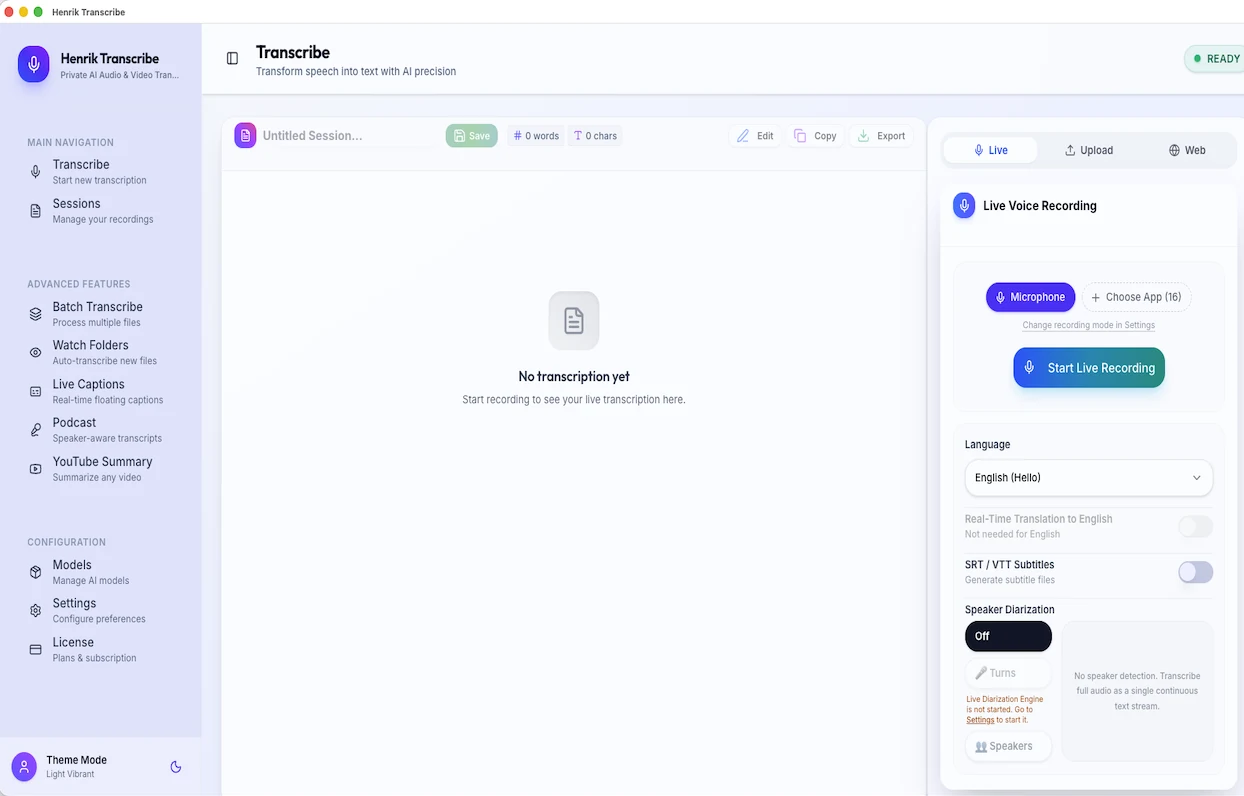
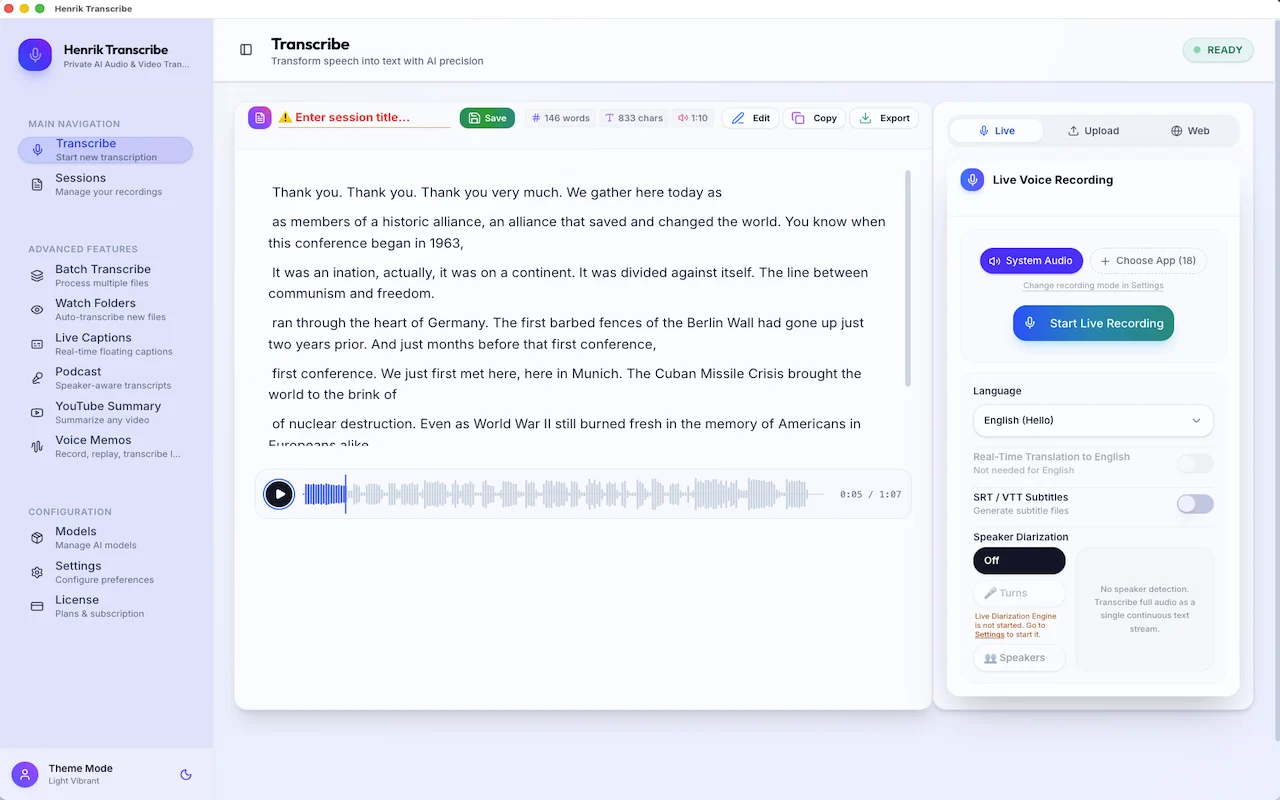
Add Voice Memos; new Live screenshot with waveform and system-audio sources
- Mac section: a Voice Memos feature row (record/pause, waveform player, speed, trim and
  revert, favorites, folders, Recently Deleted, share and export, on-device transcript with
  Summary, Insights and Ask) with the new Voice Memos screenshot.
- Live input tab: new screenshot and copy for system/app audio capture and the waveform
  player under the transcript.
- Hero mentions Voice Memos; comparison table gains a Voice Memos row.
- FAQ: what Voice Memos is, and why system/app audio needs Screen & System Audio Recording.
- Privacy: the screen & system audio permission, voice memos stored locally, Recently
  Deleted for 30 days; last-updated date.

diff --git a/src/content/site.ts b/src/content/site.ts
@@ -61,6 +61,19 @@ export const macFeatures = {
     image: 'images/mac/youtube-summary.webp',
     alt: 'The YouTube Summary window with a list of summarised videos and a detailed summary.',
   },
+  voiceMemos: {
+    eyebrow: 'New · Voice Memos',
+    title: 'Record now. Transcribe when you need to.',
+    body: 'A dedicated recorder for ideas, lectures and interviews. Memos stay as audio you can replay, trim and share — and when you want the words, one click transcribes a memo on your Mac and opens the same Summary, Insights and Ask tools.',
+    points: [
+      'Record, pause and resume with a live waveform',
+      'Scrub the waveform, skip 15 s, play at 0.75× to 2×; trim with a one-click revert',
+      'Favorites, folders, search, and Recently Deleted for 30 days',
+      'Share with AirDrop, Mail or Messages; export M4A, WAV or the transcript',
+    ],
+    image: 'images/mac/voice-memos.webp',
+    alt: 'The Voice Memos window: a list of recordings, a waveform player with speed control, and Transcript, Summary, Insights and Ask tabs.',
+  },
 }
 
 export const inputs = [
@@ -68,9 +81,9 @@ export const inputs = [
     id: 'live',
     label: 'Live',
     title: 'Record and transcribe as you speak.',
-    body: 'Start the microphone and words appear instantly. Great for meetings, interviews, lectures and voice notes — with optional on-device speaker labels.',
+    body: 'Capture your microphone, your Mac’s system audio or a single app, and words appear instantly — with optional on-device speaker labels. A waveform tracks the recording, then turns into a player so you can replay any moment under the transcript.',
     image: 'images/mac/live.webp',
-    alt: 'The Live tab with a microphone recording control.',
+    alt: 'The Live tab with System Audio and Choose App sources, a transcript, and a waveform player under it.',
   },
   {
     id: 'upload',
@@ -142,6 +155,7 @@ export const comparison: { feature: string; mac: boolean | string; iphone: boole
   { feature: 'Speaker diarization', mac: true, iphone: false },
   { feature: 'AI Summary & Talk to Transcript', mac: true, iphone: false },
   { feature: 'YouTube Summary & chapters', mac: true, iphone: false },
+  { feature: 'Voice Memos (record, trim, share, transcribe)', mac: true, iphone: false },
   { feature: 'Batch, Watch Folders, Live Captions, Podcast', mac: true, iphone: false },
   { feature: 'SRT & VTT subtitle export', mac: true, iphone: false },
   { feature: 'Whisper model manager', mac: true, iphone: false },
@@ -217,6 +231,14 @@ export const faqs = [
   {
     q: 'Can I transcribe a YouTube video?',
     a: 'On Mac, yes — paste the link and the app downloads the audio and transcribes it, or produces a full AI summary with chapters. On iPhone, web-link transcription accepts direct links to WAV audio files.',
+  },
+  {
+    q: 'What is Voice Memos, and how is it different from a live transcription?',
+    a: 'Voice Memos (Mac, ⇧⌘M) keeps recordings as audio first: record from your microphone, then replay, trim, organise in folders and share them. Nothing is transcribed until you ask — then the memo gets an on-device transcript, summary, insights and a Q&A assistant, and also appears in Sessions. Recordings never leave your Mac. Voice Memos is included with any subscription or the Lifetime license.',
+  },
+  {
+    q: 'Why does recording system or app audio ask for Screen & System Audio Recording?',
+    a: 'macOS only lets apps capture other apps’ sound through that permission. Henrik Transcribe uses it for sound only and never saves or shares your screen. If recording fails, open System Settings › Privacy & Security › Screen & System Audio Recording, turn on Henrik Transcribe, and restart the app; the app shows these steps with a button that opens the right page. Microphone recording doesn’t need this permission.',
   },
   {
     q: 'What do I need to run it?',

diff --git a/src/pages/Privacy.tsx b/src/pages/Privacy.tsx
@@ -36,13 +36,13 @@ const sections: { title: string; body: React.ReactNode }[] = [
     title: 'Permissions',
     body: (
       <p>
-        The apps ask for microphone access to record live speech. On iPhone, if you choose Apple’s built-in speech recognizer, the app also asks for Speech Recognition permission; it is used in on-device mode only. You can withdraw either permission at any time in system Settings.
+        The apps ask for microphone access to record live speech and voice memos. On Mac, recording your system audio or a single app’s audio also needs Screen &amp; System Audio Recording permission; the app uses it for sound only and never saves or shares your screen. On iPhone, if you choose Apple’s built-in speech recognizer, the app also asks for Speech Recognition permission; it is used in on-device mode only. You can withdraw any of these permissions at any time in System Settings.
       </p>
     ),
   },
   {
     title: 'Data on your device',
-    body: <p>Recordings, transcripts and session history are stored locally by the app. Deleting the app, or deleting a session inside it, removes that data from your device.</p>,
+    body: <p>Recordings, voice memos, transcripts and session history are stored locally by the app. Deleting the app, or deleting a session inside it, removes that data from your device. A deleted voice memo stays in Recently Deleted for 30 days, then is removed; you can also remove it permanently at once.</p>,
   },
   {
     title: 'Changes to this policy',
@@ -63,7 +63,7 @@ export function Privacy() {
     <main className="mx-auto w-full max-w-3xl px-5 py-16 sm:px-8 md:py-24">
       <a href={home()} className="text-sm text-muted hover:text-ink">← Back to {site.name}</a>
       <h1 className="mt-6 text-4xl font-semibold leading-tight sm:text-5xl">Privacy Policy</h1>
-      <p className="mt-3 text-muted">Last updated September 19, 2026 · Applies to {site.name} for Mac and iPhone</p>
+      <p className="mt-3 text-muted">Last updated September 28, 2026 · Applies to {site.name} for Mac and iPhone</p>
       <div className="mt-12 space-y-10">
         {sections.map((s) => (
           <section key={s.title}>

diff --git a/src/sections/Hero.tsx b/src/sections/Hero.tsx
@@ -21,7 +21,7 @@ export function Hero() {
             Private transcription for Mac and iPhone.
           </h1>
           <p className="mx-auto mt-6 max-w-2xl text-lg text-muted sm:text-xl">
-            Whisper AI that runs entirely on your device. Record live, transcribe files and links, and on Mac summarize with a local AI — no cloud, no uploads, no ads.
+            Whisper AI that runs entirely on your device. Record live, transcribe files and links, and on Mac keep Voice Memos and summarize with a local AI — no cloud, no uploads, no ads.
           </p>
           <StoreButtons className="mt-9 justify-center" />
           <p className="mt-5 inline-flex items-center gap-2 text-sm text-muted">

diff --git a/src/sections/MacSection.tsx b/src/sections/MacSection.tsx
@@ -85,6 +85,7 @@ export function MacSection() {
         <FeatureRow feature={macFeatures.summary} />
         <FeatureRow feature={macFeatures.speakers} reverse />
         <FeatureRow feature={macFeatures.youtube} />
+        <FeatureRow feature={macFeatures.voiceMemos} reverse />
       </div>
 
       <div className="mt-24 md:mt-32">
